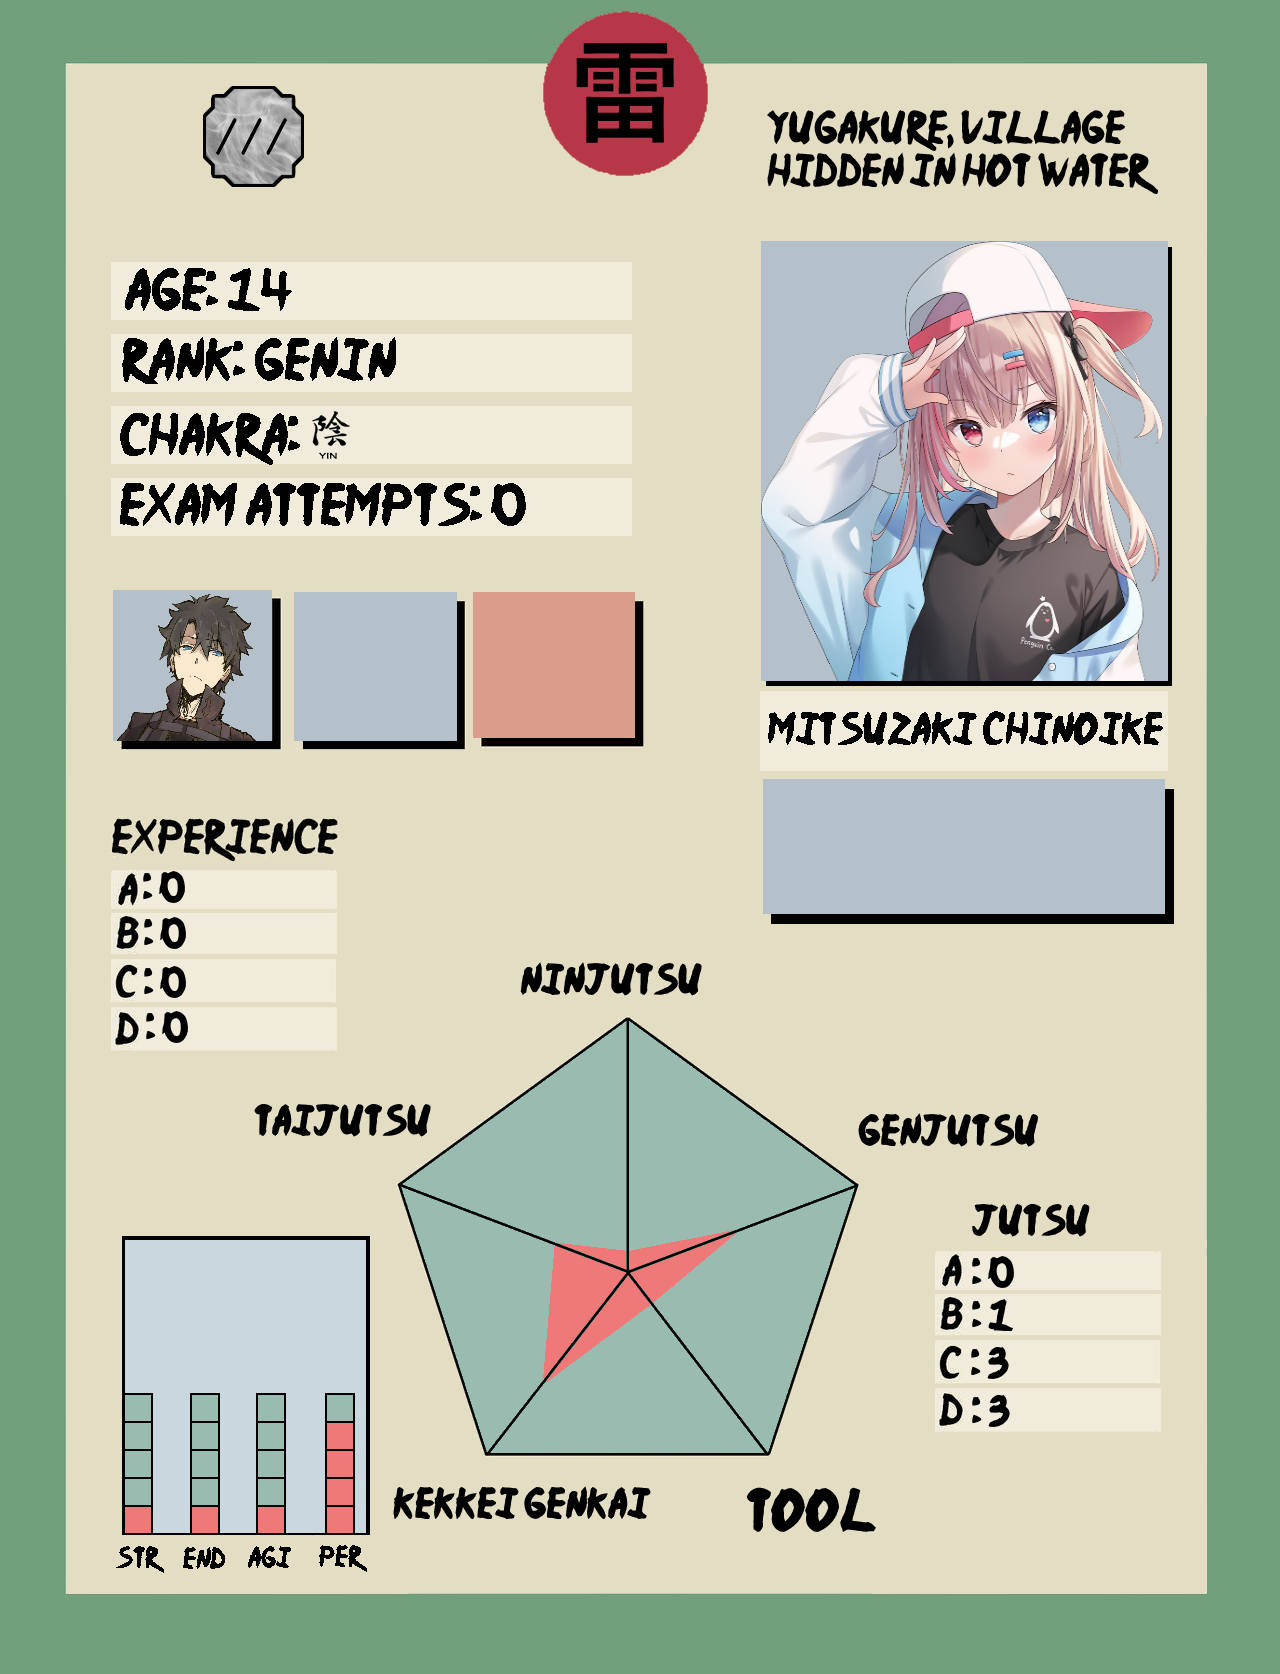
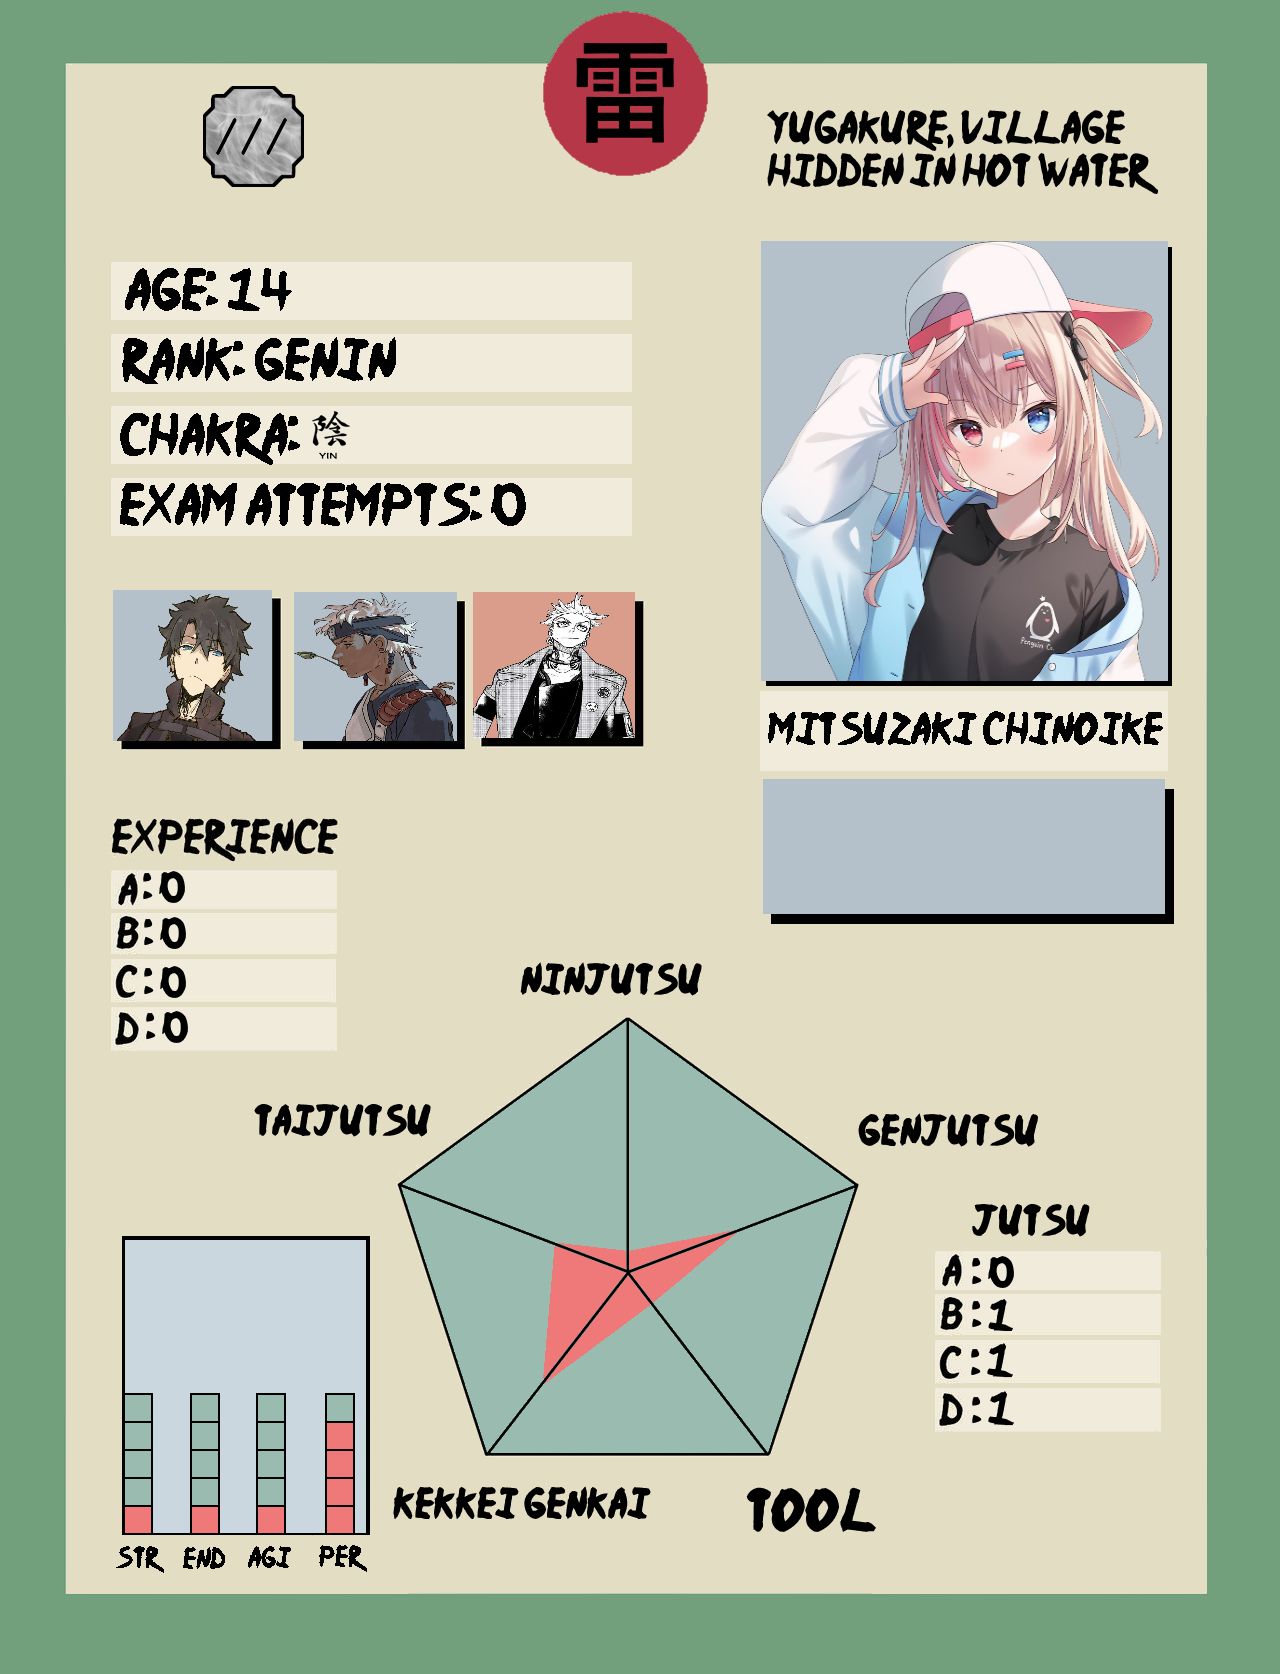
Add files via upload

Changed region(s): [[0.25, 0.3417, 0.5, 0.4659], [0.75, 0.8076, 0.7812, 0.8387]]

diff --git a/Role-play_Bios/Naruto/Matsuzaki/Matsuzaki.html b/Role-play_Bios/Naruto/Matsuzaki/Matsuzaki.html
@@ -333,7 +333,7 @@
 				<h1 id="Techniques">[ Techniques ]</h1>
 					<h2><u>Taijutsu</u></h2>
 						<div><strong>Name of Technique:</strong> Yin Style: Illusionary Kick</div>
-						<div><strong>Rank:</strong><span style="color: #BB86FC;">▰▱▱▱▱</span> [D]</div>
+						<div><strong>Rank:</strong><span style="color: #BB86FC;">▱▱▱▱▱</span> [E]</div>
 						<div><strong>Type of Jutsu:</strong> Contact Genjutsu</div>
 						<div><strong>Parent Jutsu (if any):</strong> Genjutsu: Ketsuryūgan</div>
 						<div><strong>Chakra Natures Required:</strong> Yin</div>
@@ -343,7 +343,7 @@
 						<div><strong>Appearance:</strong> Just a standard kick.</div>
 						<hr>
 						<div><strong>Name of Technique:</strong> Yin Style: Illusionary Punch</div>
-						<div><strong>Rank:</strong><span style="color: #BB86FC;">▰▱▱▱▱</span> [D]</div>
+						<div><strong>Rank:</strong><span style="color: #BB86FC;">▱▱▱▱▱</span> [E]</div>
 						<div><strong>Type of Jutsu:</strong> Contact Genjutsu</div>
 						<div><strong>Parent Jutsu (if any):</strong> Genjutsu: Ketsuryūgan</div>
 						<div><strong>Chakra Natures Required:</strong> Yin</div>
@@ -362,28 +362,8 @@
 						<div><strong>Description:</strong>This technique layers an illusion over a location, causing it to look like a different location. Because of how wide an area the illusion can be placed over, that in turn makes it easy to trick others: any who enter the area will be affected by the illusion and see the false location. But to create an illusion on such a large scale and to potentially deceive so many people raises the chances that the trick will be discovered by someone who is familiar with genjutsu.</div>
 						<div><strong>Drawbacks:</strong> "..."</div>
 						<div><strong>Appearance:</strong> Dependant on enviorment</div>
-						<hr>
-						<div><strong>Name of Technique:</strong> Demonic Illusion: Double False Surroundings</div>
-						<div><strong>Rank:</strong><span style="color: #BB86FC;">▰▰▱▱▱</span> [C]</div>
-						<div><strong>Type of Jutsu:</strong> Genjutsu</div>
-						<div><strong>Parent Jutsu (if any):</strong> Demonic Illusion: False Surroundings</div>
-						<div><strong>Chakra Natures Required:</strong> Yin</div>
-						<div><strong>Hand Seals (if any):</strong>N/A</div>
-						<div><strong>Description:</strong>This technique places another illusion within another illusion created by the user. When the target dispels the first illusion, they will not realise that a second is in place.</div>
-						<div><strong>Drawbacks:</strong> Same as "Demonic Illusion: False Surroundings"</div>
-						<div><strong>Appearance:</strong> Dependant on enviorment</div>
 					<hr>
 					<h2><u>Ninjutsu</u></h2>
-						<div><strong>Name of Technique:</strong> Blood Style: Blood Shuriken</div>
-						<div><strong>Rank:</strong><span style="color: #BB86FC;">▰▰▱▱▱</span> [C]</div>
-						<div><strong>Type of Jutsu:</strong> Ninjutsu and Genjutsu</div>
-						<div><strong>Parent Jutsu (if any):</strong> Genjutsu: Ketsuryūgan</div>
-						<div><strong>Chakra Natures Required:</strong> Yin</div>
-						<div><strong>Hand Seals (if any):</strong>N/A</div>
-						<div><strong>Description:</strong>The user throws a Shuriken made of blood at the target to cause damage and potentialy cast a genjutsu if the blood shuriken draws blood.</div>
-						<div><strong>Drawbacks:</strong> Genjutsu is not cast if the shuriken does not draw blood.</div>
-						<div><strong>Appearance:</strong> Dependant on user.</div>
-						<hr>
 						<div><strong>Name of Technique:</strong> Blood Style: Iron Mold</div>
 						<div><strong>Rank:</strong><span style="color: #BB86FC;">▰▰▰▱▱</span> [B]</div>
 						<div><strong>Type of Jutsu:</strong> Ninjutsu, Kenjutsu, and Genjutsu</div>
